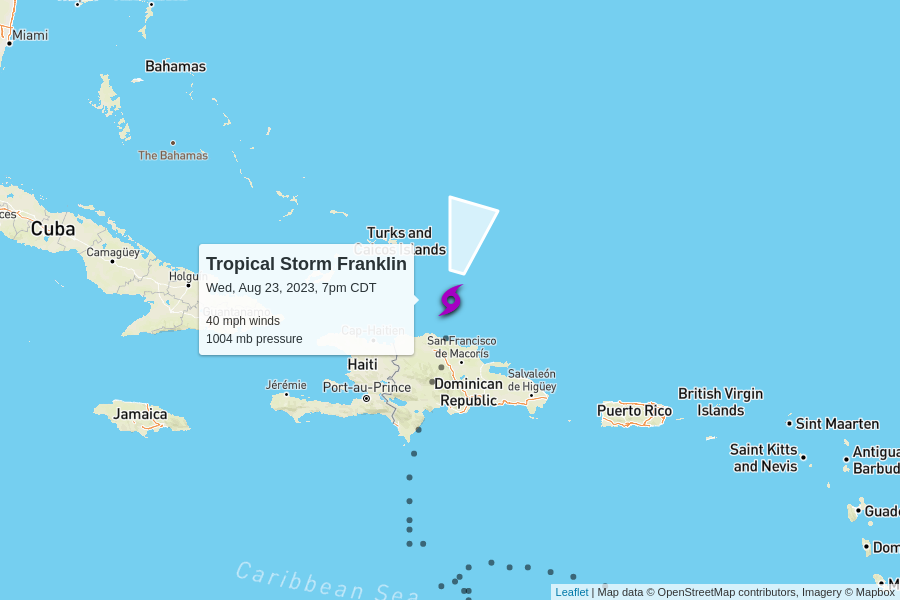
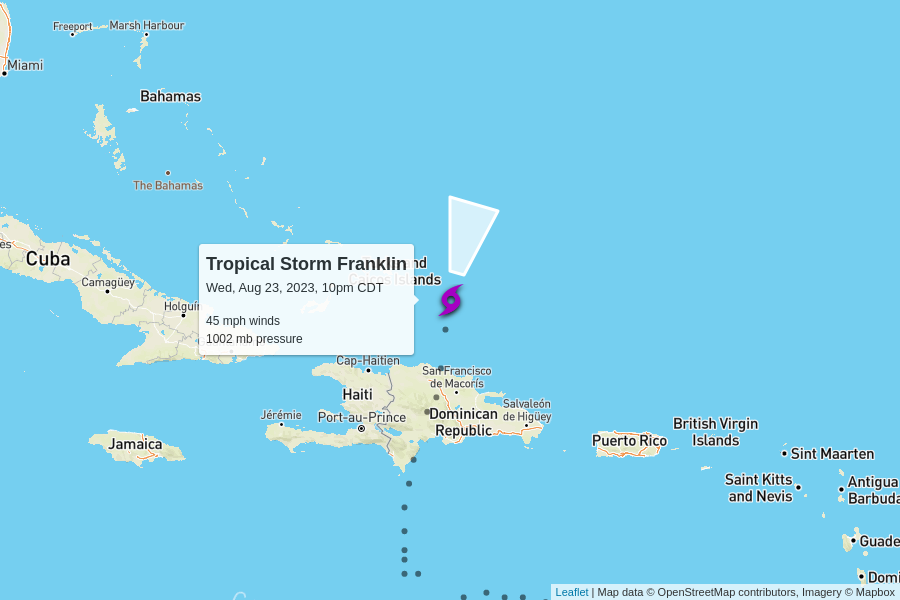
automatic update

diff --git a/docs/index.html b/docs/index.html
@@ -100,7 +100,7 @@
         <td colspan="6" class="storm category-0" >
           <h2>
             Tropical Storm Franklin
-            <p class="updated">last updated <span data-time>2023-08-24T00:00:00.000Z</span></p>
+            <p class="updated">last updated <span data-time>2023-08-24T03:00:00.000Z</span></p>
           </h2>
         </td>
       </tr>
@@ -115,8 +115,8 @@
       </tr>
       <tr>
         <td class="spacer"></td>
-        <td>40 mph</td>
-        <td>1004 mb</td>
+        <td>45 mph</td>
+        <td>1002 mb</td>
         <td>
           13 mph to the north-northeast
           <br/>
